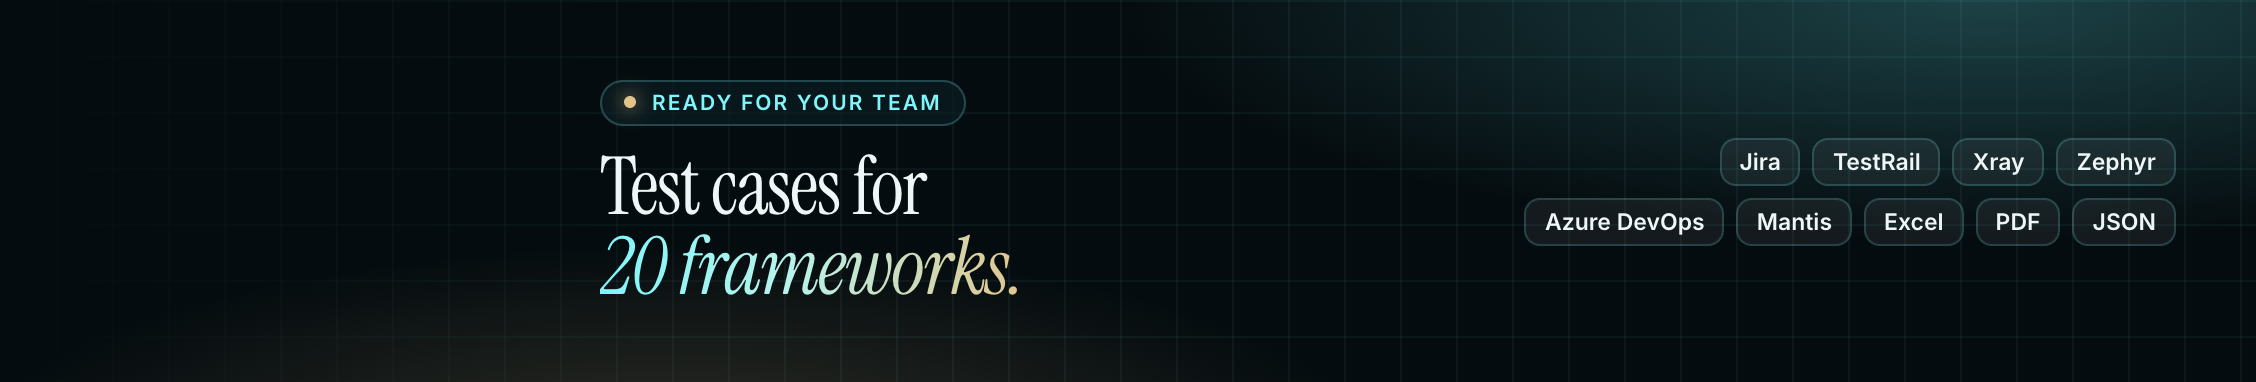
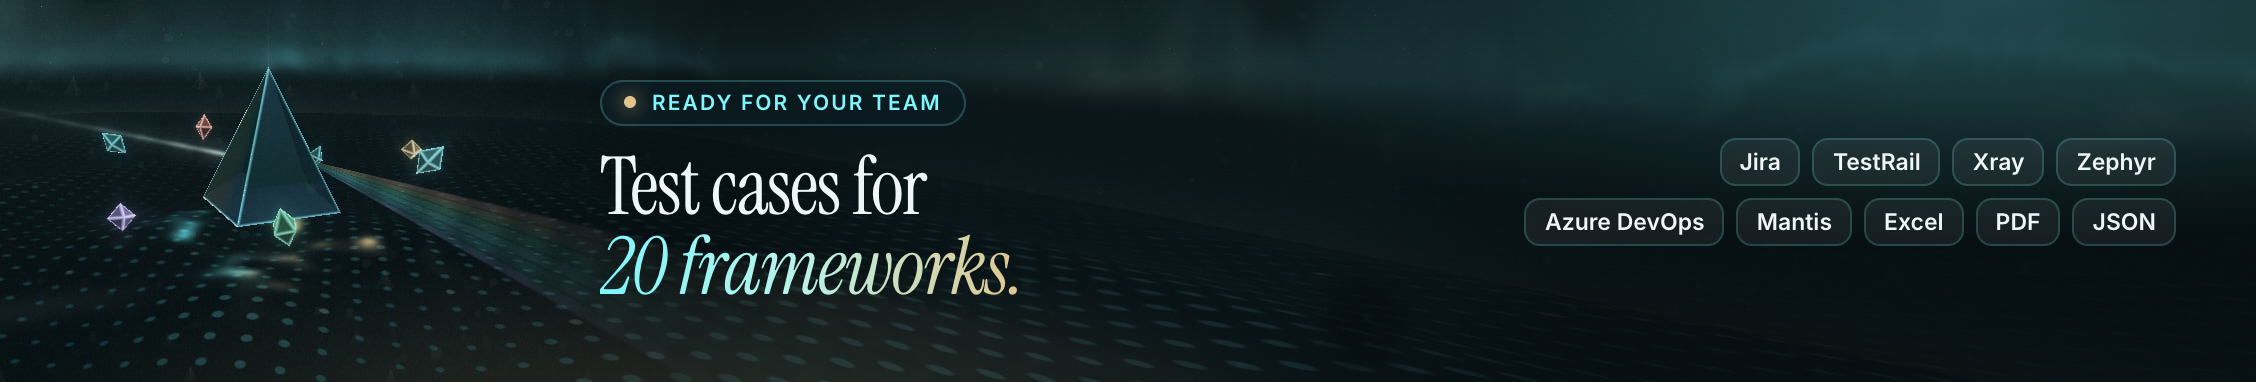
Design: LinkedIn Premium covers re-rendered in the Fusion look (#1805)

diff --git a/scripts/linkedin-studio/build.js b/scripts/linkedin-studio/build.js
@@ -1,7 +1,8 @@
 #!/usr/bin/env node
 /* Renders the LinkedIn Premium kit for the QA-lab URL Review company page:
    cover slideshow, proof cards from the Live Reports, a carousel PDF, the page copy, and the month plan.
-     node scripts/linkedin-studio/build.js [--batch premium-2026-10] [--start 2026-10-21] [--renews 2026-11-19] */
+     node scripts/linkedin-studio/build.js [--batch premium-2026-10] [--start 2026-10-21] [--renews 2026-11-19]
+     node scripts/linkedin-studio/build.js --batch premium-2026-10 --covers */
 
 const fs = require("fs");
 const path = require("path");
@@ -183,7 +184,26 @@ async function pdfFrom(browser, images, file) {
   fs.unlinkSync(tmp);
 }
 
+async function renderCovers(browser, t) {
+  const cover = await browser.newPage({ deviceScaleFactor: 2 });
+  await cover.goto("file://" + path.join(__dirname, "frame.html"));
+  for (const variant of ["promise", "proof", "handoff"]) {
+    await shoot(cover, { kind: "cover", variant, data: t }, path.join(OUT, "cover-" + variant + ".png"), [1128, 191], 2);
+  }
+  await cover.close();
+}
+
+// --covers re-renders only the cover slides from the batch's page.json totals, so the page copy, plan and carousel stay as uploaded.
+async function coversOnly() {
+  const t = JSON.parse(fs.readFileSync(path.join(OUT, "page.json"), "utf8")).totals;
+  const browser = await chromium.launch({ channel: "chromium" });
+  await renderCovers(browser, t);
+  await browser.close();
+  console.log("LinkedIn covers:", path.relative(ROOT, OUT), "·", nf(t.reports), "sites");
+}
+
 async function main() {
+  if (opts.covers) return coversOnly();
   fs.mkdirSync(OUT, { recursive: true });
   const reports = readReports();
   const t = totals(reports);
@@ -192,12 +212,7 @@ async function main() {
   const rows = plan(copy);
 
   const browser = await chromium.launch({ channel: "chromium" });
-  const cover = await browser.newPage({ deviceScaleFactor: 2 });
-  await cover.goto("file://" + path.join(__dirname, "frame.html"));
-  for (const variant of ["promise", "proof", "handoff"]) {
-    await shoot(cover, { kind: "cover", variant, data: t }, path.join(OUT, "cover-" + variant + ".png"), [1128, 191], 2);
-  }
-  await cover.close();
+  await renderCovers(browser, t);
 
   const page = await browser.newPage();
   await page.goto("file://" + path.join(__dirname, "frame.html"));
